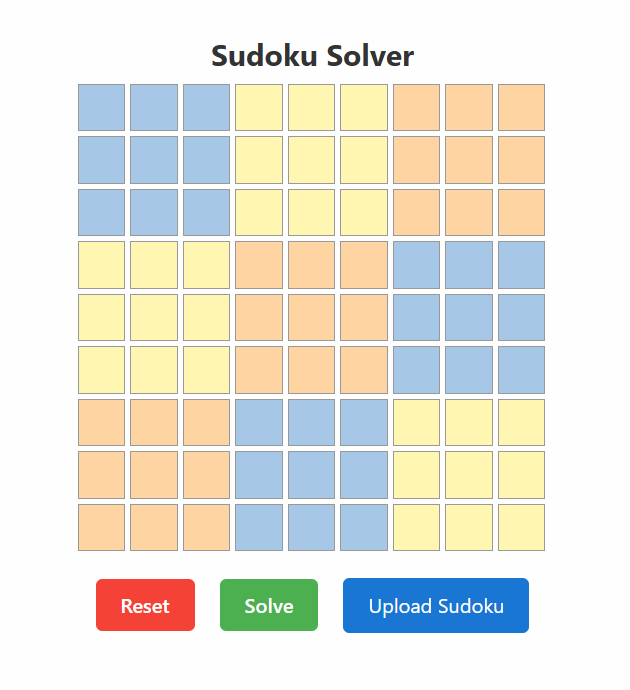
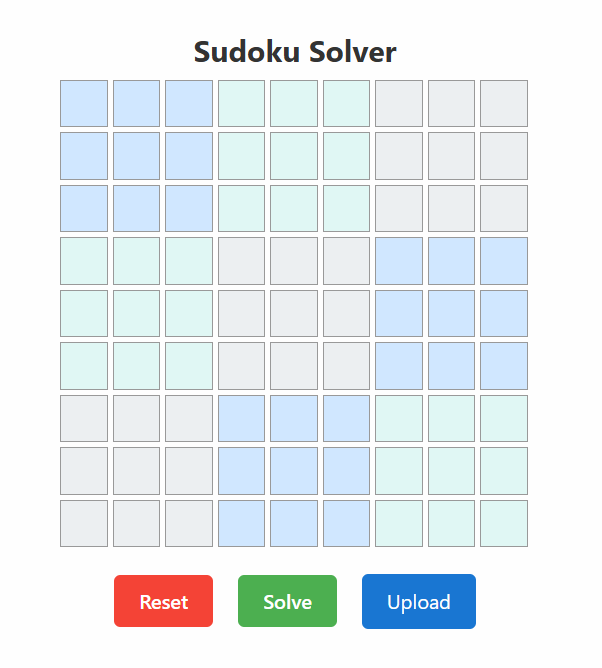
UI Improvements

diff --git a/ui/src/App.css b/ui/src/App.css
@@ -51,13 +51,15 @@ h1{
 
 /* Coloring for 3x3 blocks */
 .sudoku-cell.block-a {
-  background-color: #A7C7E7;
+  background-color: #D0E7FF;
 }
+
 .sudoku-cell.block-b {
-  background-color: #FFF6B2;
+  background-color: #E0F7F4;
 }
+
 .sudoku-cell.block-c {
-  background-color: #FFD4A3;
+  background-color: #ECEFF1;
 }
 
 /* Button styles */
@@ -98,6 +100,12 @@ h1{
   color: #f44336;
   border: black 1px solid;
 }
+.upload-label:hover {
+  background-color: white;
+  color: #1976d2;
+  border: black 1px solid;
+}
+
 .solve-button:active {
   background-color: #f0f0f0;
   color: #4CAF50;
@@ -114,6 +122,11 @@ h1{
 button:disabled {
   opacity: 0.5;
   cursor: not-allowed;
+}
+.upload-disabled {
+  opacity: 0.5;
+  cursor: not-allowed;
+  pointer-events: none;
 }
 
 .upload-label {

diff --git a/ui/src/App.jsx b/ui/src/App.jsx
@@ -143,8 +143,8 @@ return (
       <div className="buttons">
         <button className='reset-button' onClick={handleClear} disabled={loading}>Reset</button>
         <button className='solve-button' onClick={handleSolve} disabled={loading || isSolved}>Solve</button>
-        <label htmlFor="file-upload" className="upload-label">
-          Upload Sudoku
+        <label htmlFor="file-upload" className={`upload-label ${loading || isSolved ? "upload-disabled" : ""}`}>
+          Upload
         </label>
         <input
           id="file-upload"
@@ -152,6 +152,7 @@ return (
           accept="image/*"
           onChange={handleImageUpload}
           style={{ display: "none" }}
+          disabled={loading || isSolved}
         />
       </div>
 

diff --git a/main/sudoku_solver.py b/main/sudoku_solver.py
@@ -1,5 +1,6 @@
 class SudokuSolver:
     def __init__(self, board):
+        board = [[str(cell) if cell != '' else '' for cell in row] for row in board]
         self.board = board
 
     def solve(self):
